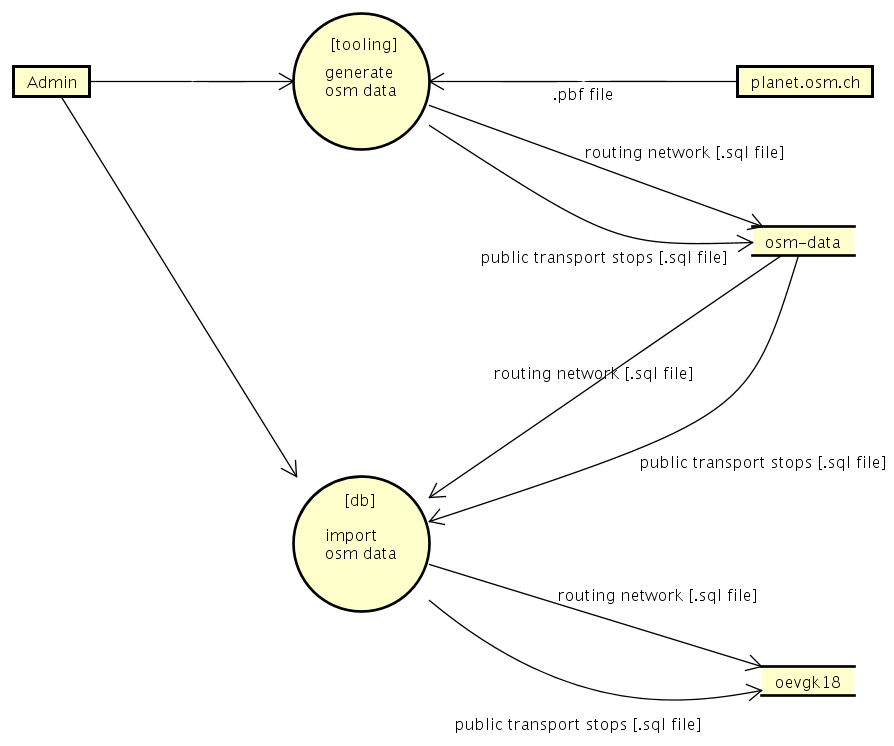
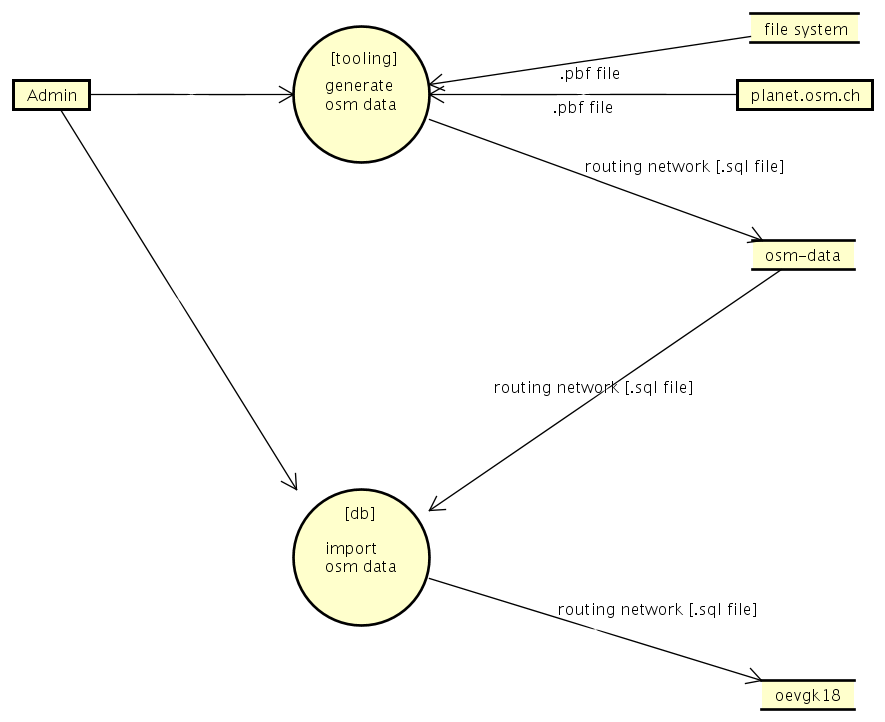
update architecture

diff --git a/projectdoc/implementation.tex b/projectdoc/implementation.tex
@@ -16,7 +16,7 @@ Für eine einfache Handhabung wurde ein Docker-Setup gewählt.
 Die Bedienung dieses Setups ist im Kapitel \ref{Softwaredokumentation} ausführlich beschrieben.
 
 Grundsätzlich kann man sagen, dass zwei Docker-Container existieren, namentlich \emph{tooling} und \emph{db}.
-Der Docker-Container \emph{tooling} nimmt Daten in gängigen Formaten entgegen oder bezieht diese von externen Diensten und bereitet sie so vor, dass diese vom Docker-Container \emph{db} in die Datenbank \emph{oevgk18} für eine Weitereverwendung des \acs{ÖV}-Güteklassen 2018 Generator geladen werden können.
+Der Docker-Container \emph{tooling} nimmt Daten entgegen oder bezieht diese von externen Diensten und bereitet sie so vor, dass diese vom Docker-Container \emph{db} in die Datenbank \emph{oevgk18} für eine Weitereverwendung des \acs{ÖV}-Güteklassen 2018 Generator geladen werden können.
 Der Docker-Container \emph{db} sorgt ebenfalls dafür, dass beim Starten die nötigen Extensions (pgrouting, hstore, \dots) aktiviert sind und zuerst die Schemas und danach die Stored Procedures erstellt werden.
 Zusätzlich müssen nach den einzelnen Imports, welche nachfolgend beschrieben werden, zusätzliche Modifaktionen am Schema vorgenommen werden.
 Diese Modifikationen werden in einem Post-Import-Schritt durchgeführt, weil die Terrain- sowie die OSM-Daten durch Tools importiert werden, welche ein Schema vorgeben und somit ein bereits modifiziertes Schema überschrieben wird. Ebenfall werden zusätzliche Indizes erstellt.
@@ -26,8 +26,10 @@ Der \acs{ÖV}-Güteklassen 2018 Generator operiert grundsätzlich auf drei exter
 Für jede Datenquelle existiert ein Service im Docker-Container \emph{tooling} und ein Pendant im Docker-Container \emph{db}, welche die vorverarbeiteten Daten des Docker-Container \emph{tooling} entgegennimmt und in die Datenbank spielt.
 
 \paragraph{OSM-Daten}~\\
-\acs{OSM}-Daten werden von der Routing-Enginge für das Berechnen von Isolinien und für das Identifizieren von \acs{ÖV}-Haltestellen verwendet.
-In Abbildung \ref{fig:dataflow-docker-setup-osm-data} ist ersichtlich, wie der Docker-Container \emph{tooling} die \acs{PBF}-Datei der Schweiz von einem externen Dienst~\cite{planet_osm_ch} bezieht und für die zwei vorhin erwähnten Zwecke verarbeitet.
+\acs{OSM}-Daten werden von der Routing-Engine für das Berechnen von \glspl{Isochrone} und für das Identifizieren von \acs{ÖV}-Haltestellen verwendet.
+In Abbildung \ref{fig:dataflow-docker-setup-osm-data} ist ersichtlich, wie der Docker-Container \emph{tooling} die \acs{PBF}-Datei der Schweiz von einem externen Dienst~\cite{planet_osm_ch} bezieht und für die zwei vorhin erwähnten Zwecke vorbereitet.
+Es besteht ebenfalls die Möglichkeit eine lokale \acs{OSM}-Datei zu verwenden.
+Dies ist vorallem für Testing-Zwecken vorteilhaft, da auf kleineren Ausschnitten getestet werden kann.
 
 \begin{figure}[ht]
     \centering
@@ -36,13 +38,11 @@ In Abbildung \ref{fig:dataflow-docker-setup-osm-data} ist ersichtlich, wie der D
     \label{fig:dataflow-docker-setup-osm-data}
 \end{figure}
 
-Das Routing-Netzwerk wird mithilfe des Tools \emph{OSM2PO}~\cite{OSM2PO} für pgrouting aufbereitet und als SQL-Datei bereitgestellt.
-Die \acs{ÖV}-Haltestellen werden durch Osmosis~\cite{osmosis} gefiltert und ebenfalls in eine SQL-Datei exportiert.
-Beide Tools werden durch separate Konfigurationen für unsere Zwecke konfiguriert.
-So werden aus den \acs{OSM}-Daten für das Identifizieren von \acs{ÖV}-Haltestellen nur Nodes extrahiert, welche eine \emph{uic\_ref} besitzen. \ac{UIC}-Referenzen werden für die Identifizierung von \acs{ÖV}-Haltestellen verwendet.
+Der Routing-Graph wird mithilfe des Tools \emph{OSM2PO}~\cite{OSM2PO} für pgRouting aufbereitet und als SQL-Datei bereitgestellt.
+\emph{OSM2PO} wird durch eine separate Konfiguration für unsere Zwecke konfiguriert.
 
 \paragraph{GTFS-Daten}~\\
-Die Fahrplandaten werden im Docker-Container \emph{tooling} automatisch von geOps~\ref{geops_fahrplandaten} im GTFS-Format~\cite{gtfs_spec} heruntergeladen und im CSV-Format als TXT-Dateien bereitgestellt.
+Die Fahrplandaten werden im Docker-Container \emph{tooling} automatisch von geOps~\cite{geops_fahrplandaten} im GTFS-Format~\cite{gtfs_spec} heruntergeladen und im CSV-Format als TXT-Dateien bereitgestellt.
 Diese wiederum können in einem nächsten Schritt durch den Docker-Container \emph{db} in die Datenbank gespielt werden.
 Der Datenfluss ist in Abbildung \ref{fig:dataflow-docker-setup-gtfs-data} ersichtlich.
 
@@ -58,7 +58,7 @@ Das Terrainmodell kann aufgrund der Grösse der Datei und aus lizenztechnischen 
 Diese Datei wird mit raster2pgsql~\cite{raster2pgsql}, einem Tool von PostGIS, welches Raster-Formate in ein Format konvertiert, welche in eine PostGIS-Tabelle geladen werden kann, verarbeitet.
 Dabei wird von der üblichen Struktur (ein Service im Docker-Container \emph{tooling} und ein Pendant im \emph{db}) abgewichen.
 raster2pgsql ist darauf ausgelegt direkt in eine PostgreSQL-Datenbank zu schreiben.
-Der Weg über eine Intermediate-Datei wäre somit eine nicht begründete Indirektion.
+Der Weg über eine Intermediate-Datei wäre somit eine überflüssige Indirektion.
 Somit entfällt hier der Service im Docker-Container \emph{tooling}.
 Der Datenfluss ist in Abbildung \ref{fig:dataflow-docker-setup-terrain-data} ersichtlich.
 
@@ -73,9 +73,10 @@ Der Datenfluss ist in Abbildung \ref{fig:dataflow-docker-setup-terrain-data} ers
 \label{ÖV-Güteklassen 2018 Generator:Umsetzung Spezifikation}
 
 \paragraph{Datenfluss}~\\
-Durch die unterschiedliche Natur der Datenquellen und der Menge dieser ist es hilfreich, zu visualisieren, zu welchem Zeitpunkt, welche Daten zu welchen Zweck benötigt werden.
+Durch die unterschiedliche Natur der Datenquellen und der Menge dieser ist es hilfreich, zu visualisieren, zu welchem Zeitpunkt, welche Daten zu welchem Zweck benötigt werden.
 Wie in Abbildung \ref{fig:Flow_OeVGK_Brechnung} ersichtlich ist, werden die \acs{ÖV}-Güteklassen in fünf Schritten berechnet. 
 In Abbildung \ref{fig:dataflow_OeV-Gueteklassen_2018_Generator} ist nun schematisch die Raison d’Être der Datenquellen ersichtlich.
+Die Pfeilrichtung beschreibt den Datenfluss.
 
 \begin{figure}[ht]
     \centering
@@ -85,7 +86,7 @@ In Abbildung \ref{fig:dataflow_OeV-Gueteklassen_2018_Generator} ist nun schemati
 \end{figure}
 
 Die Datenquellen \emph{GTFS}, \emph{OSM} und \emph{Terrain-Daten} entsprechen an sich keinen separaten Datenquellen, sondern werden nur zum besseren Verständnis getrennt dargestellt.
-Wie wir in Kapitel \ref{ÖV-Güteklassen 2018 Generator:Datenaufbereitung} gesehen haben, werden diese aufbereitet und optimiert in einer Datenbank \emph{oevgk18} gehalten.
+Wie wir in Kapitel \ref{ÖV-Güteklassen 2018 Generator:Datenaufbereitung} gesehen haben, werden diese aufbereitet und in einer Datenbank \emph{oevgk18} gehalten.
 
 Nachfolgend werden die fünf Berechnungsschritte separat beschrieben.
 
@@ -124,13 +125,13 @@ In Tabelle \ref{table:Mapping GTFS Route Type Verkehrsmittelgruppe} ist ein Mapp
     \label{table:Mapping GTFS Route Type Verkehrsmittelgruppe}
 \end{table}
 
-Die Herausforderung beim Berechnen der Art der Verkehrsmittel ist die Evaluation der Bahnknoten.
+Die Herausforderung beim Berechnen der Art der Verkehrsmittel ist die Bestimmung der Bahnknoten.
 Die Definition des Bahnknoten ist im Kapitel \ref{Berechnungsmethodik OeVGK18:Art der Verkehrsmittel} genau spezifiziert.
 Für die Klassifizierung eines Bahnknoten ist die Anzahl der Richtungen, in welche man von einer Bahnstation aus verkehren kann, relevant.
 
 \begin{listing}[ht]
     \inputminted{sql}{projectdoc/listing/count_of_distinct_next_stops.sql}
-    \caption{SQL-Query zur Bestimmung der Anzahl erreichbaren Haltestellen}
+    \caption{SQL-Query zur Bestimmung der Anzahl erreichbaren Haltestellen (finale Version)}
     \label{listing:count_of_distinct_next_stops}
 \end{listing}
 
@@ -138,7 +139,7 @@ In Listing \ref{listing:count_of_distinct_next_stops} ist ersichtlich, wie für 
 Im abgebildeten Query wird geprüft, ob der aktuelle Stop bei einem anderen \emph{Trip} als vorherige Haltestelle vorkommt.
 Die Anzahl wird mit der Window Function gesammelt und gruppiert für jede Haltestelle retourniert.
 
-Die abgebildete Berechnung hat mehrere Verbesserungen und Verschlimmbesserungen durchlaufen.
+Die abgebildete Berechnung hat mehrere Ver- und Verschlimmbesserungen durchlaufen.
 Es lohnt sich einen ausführlicheren Blick auf die Evolution der Abfragetechnik zu legen, da diese Hoch und Tiefs durchlebt hat und einige Learnings daraus gezogen wurden.
 
 \subparagraph{1. Version}
@@ -154,14 +155,14 @@ Das Datenmodell von GTFS zwingt einem zu einem Join über mehrere grössere Tabe
 In Listing \ref{listing:count_of_distinct_next_stops_v1} ist ersichtlich, wie in einer Common Table Expression dieser für jede Haltestelle durchgeführt wird.
 Dieser Join bildet für eine Station alle \emph{Trips} mit der Nummer des akutellen \emph{Stops} auf einem \emph{Trip} ab.
 Dieser Join ist sehr zeit- und ressourcenintensiv.
-Diese Abfrage dauert pro Haltestelle 11.9 Sekunden, was bei momentan akuellen 1815 Bahnhaltestellen extrem ins Gewicht fällt.
+Diese Abfrage dauert pro Haltestelle 11.9 Sekunden, was bei momentan akuellen 1815 Bahnhaltestellen extrem ins Gewicht fällt und nicht zumutbar ist.
 
 \subparagraph{2. Version}
 In einer zweiten Version war die Überlegung den Join zu persistieren, damit nicht jede Abfrage diese aufwändigen Join durchführen muss und Indizes darauf zu generieren.
 
 Der Grund warum in diesem Fall nicht eine temporäre Tabelle in Frage kommt, ist in der PostgreSQL-Dokumentation beschrieben: "`The autovacuum daemon cannot access and therefore cannot vacuum or analyze temporary tables."'~\cite{postgresql_doc}
 Es ist auch nicht möglich den Daemon manuell anzustossen, da das Erstellen der temporären Tabelle und das Starten des Daemons aus einer PostgreSQL-Funktion nicht in der selben Session durchgeführt werden kann, was den Nutzen der temporären Tabelle zu nichte macht, denn damit die Indizes greifen, ist dieser Prozess relevant.
-Das Persistieren des Join und das Anlegen der Indizes bringen in diesem Fall eine enorme Performanzsteigerung, wie in Tabelle \ref{table:Performanzvergleich Temp Table und Table mit Index} ersichtlich ist, mit der Annahme, dass Autovacuum lief.
+Das Persistieren des Join in einer persistenten Tabelle (\emph{next\_station\_mapping}) und das Anlegen der Indizes bringen in diesem Fall eine enorme Performanzsteigerung, wie in Tabelle \ref{table:Performanzvergleich Temp Table und Table mit Index} ersichtlich ist, mit der Annahme, dass Autovacuum lief.
 
 \begin{table}[ht]
     \centering
@@ -228,7 +229,7 @@ Da nun die Berechnung nicht mehr für alle Bahnhaltestellen einzeln durchgeführ
 \end{table}
 
 In der Tabelle \ref{table:Performanzvergleich Join in Tabelle und Join in CTE} ist das Ergebnis ersichtlich.
-Die Performanzverbesserung ist durch die Natur des OeVGK18-Generator ein Tropfen auf dem heissen Stein, jedoch wird die Verbesserung übernommen, da in dieser Variante nicht zusätzliche eine Tabelle angelegt werden muss, welche nur für einen Join benötigt wird und sonst nichts mit der Domain zu tun hat.
+Die Performanzverbesserung ist nicht immens, jedoch wird die Verbesserung übernommen, da in dieser Variante nicht zusätzliche eine Tabelle angelegt werden muss, welche nur für einen Join benötigt wird und sonst nichts mit der Domain zu tun hat.
 
 Die finale Version war bereits in Listing \ref{listing:count_of_distinct_next_stops} ersichtlich.
 
@@ -287,7 +288,7 @@ Welche \glspl{Isochrone} für eine Haltestelle erzeugt werden und welche Gütekl
 Die Haltestellen stammen aus dem Datenstamm der SBB~\cite{sbb_hafas_spec} und sind somit nicht Teil des Routing-Graphen. 
 Um die \glspl{Isochrone} berechnen zu können, muss auf dem Routing-Graphen zuerst ein Startpunkt ermittelt werden, von dem das Routing entlang der Strassen und Wege ausgehen kann.
 Dieser Punkt soll möglichst nahe an der eigentlichen Haltestelle liegen.
-Es ist anzumerken, dass unsere Fahrplan-Daten lediglich ein geographischer Punkt pro Haltestelle definiert und so Buskanten oder Gleise nicht genau abbilden.
+Es ist anzumerken, dass unsere Fahrplandaten lediglich ein geographischer Punkt pro Haltestelle definiert und so Buskanten oder Gleise nicht genau abbilden.
 
 Ein erster Ansatz dieses "`Snappings"' sucht mithilfe einer "`Nearest Neighbor"'-Suche den geographisch nächstliegenden Vertex des Routing-Graphen zu den Koordinaten der Haltestelle.
 Dies ist bei regulären Bushaltestellen mit zwei Kanten ein guter Ansatz, da diese Koordinaten meist neben oder direkt auf der Strasse liegen.
@@ -354,19 +355,19 @@ Die Richtung der Kanten wird dabei umgekehrt, da der Dijkstra-Algorithmus die St
 Für unsere Zwecke ist es aber realistischer, den Laufweg zu berechnen, wenn man zur Haltestelle hin läuft.
 
 \begin{listing}[ht]
-    \inputminted{sql}{projectdoc/listing/calc_isochrones_preselection.sql}
-    \caption[Vorselektion der Kanten für die Berechnung von Isochronen]{Mit einer effizienten Index-Suche werden alle Kanten in der Nähe der Haltestelle ermittelt}
-    \label{listing:calc_isochrones_preselection}
+    \inputminted{sql}{projectdoc/listing/calc_isochrones_dijkstra.sql}
+    \caption[Dijkstra-Algorithmus zur Berechnung von Isochronen]{Mit einem Dijkstra-Algorithmus werden bis zur Maximaldistanz alle erreichbaren Vertices gesucht (Auszug)}
+    \label{listing:calc_isochrones_dijkstra}
 \end{listing}
 
-Vorgägig werden mit einer effizienten Query alle Kanten gesucht, die sich in einem Radius von 1300 Metern der Haltestelle befinden (siehe Listing \ref{listing:calc_isochrones_preselection}).
+Vorgängig werden mit einer Query alle Kanten gesucht, die sich in einem Radius von 1300 Metern der Haltestelle befinden (siehe Listing \ref{listing:calc_isochrones_preselection}).
 Dies, weil keine Isochronen berechnet werden, die einen grösseren Radius als 1300 Meter einschliessen.
 Dadurch verringert sich die Anzahl Kanten enorm, die pgRouting mit dem Dijkstra-Algorithmus abarbeiten muss.
 
 \begin{listing}[ht]
-    \inputminted{sql}{projectdoc/listing/calc_isochrones_dijkstra.sql}
-    \caption[Dijkstra-Algorithmus zur Berechnung von Isochronen]{Mit einem Dijkstra-Algorithmus werden bis zur Maximaldistanz alle erreichbaren Vertices gesucht}
-    \label{listing:calc_isochrones_dijkstra}
+    \inputminted{sql}{projectdoc/listing/calc_isochrones_preselection.sql}
+    \caption[Vorselektion der Kanten für die Berechnung von Isochronen]{Mit einer effizienten Index-Suche werden alle Kanten in der Nähe der Haltestelle ermittelt (Auszug)}
+    \label{listing:calc_isochrones_preselection}
 \end{listing}
 
 Im zweiten Schritt wird mit diesen Vertices eine Alpha Shape~\cite{alpha_shapes} erzeugt (siehe Listing \ref{listing:calc_isochrones_alpha_shape}). Dieser Algorithmus bildet das kleinst mögliche Polygon, wobei alle gefunden Vertices darin enthalten sein müssen.
@@ -374,20 +375,20 @@ Diese Alpha Shape stellt die \gls{Isochrone} dar.
 
 \begin{listing}[ht]
     \inputminted{sql}{projectdoc/listing/calc_isochrones_alpha_shape.sql}
-    \caption[Berechnung der Alpha Shape]{Mit den erreichbaren Vertices wird eine Alpha Shape erzeugt}
+    \caption[Berechnung der Alpha Shape]{Mit den erreichbaren Vertices wird eine Alpha Shape erzeugt (Auszug)}
     \label{listing:calc_isochrones_alpha_shape}
 \end{listing}
 
 Der erste Schritt muss pro Haltestelle nur ein Mal für die grösste zu berechnende Distanz durchgeführt werden, für die Erzeugung der \glspl{Isochrone} für kürzere Distanzen wird das Ergebnis des Dijkstra-Algorithmus gefiltert und nur die Vertices beachtet, die innerhalb dieser Distanz von der Haltestelle erreichbar sind.
 Auf die einzelnen \glspl{Isochrone} wird ein zusätzlicher Buffer angewendet, um die scharfen Ecken etwas abzurunden.
-Dadurch wird bewusst etwas Unschärfe hinzugefügt, um nicht die Illusion zu erwecken, dass die \gls{Isochrone} das Einzugsgebiet ganz genau abbildet, sondern nur eine Approximation dessen darstellt.
+Dadurch wird bewusst etwas Unschärfe hinzugefügt, um nicht die Illusion zu erwecken, dass die \gls{Isochrone} das Einzugsgebiet exakt abbildet, sondern nur eine Approximation dessen darstellt.
 
 \paragraph{Ausgabe des Ergebnisses}~\\
 Nach der Berechnung der \acs{ÖV}-Güteklassen liegt für jede Haltestelle, die mindestens eine Basiserschliessung hat, ein oder mehrere \glspl{Isochrone} vor.
 Diese gilt es nun im GeoJSON Format auszugeben.
 Dabei wird für jeden der unterschiedlichen Stichtage eine separate Datei erstellt.
 
-Für jede \gls{Isochrone} wird ein Feature erstellt, wobei die \acs{ÖV}-Güteklasse und die \emph{uic\_ref} der Haltestelle als zusätzliche Attribute mitgegeben werden.
+Für jede \gls{Isochrone} wird ein GeoJSON-Feature erstellt, wobei die \acs{ÖV}-Güteklasse und die \emph{uic\_ref} der Haltestelle als zusätzliche Attribute mitgegeben werden.
 Anschliessend werden alle Features sortiert nach \acs{ÖV}-Güteklassen sortiert, wobei die tieferen Klassen zuerst eingefügt werden.
 Dies hat später für die Visualisierung eine Auswirkung.
 Weil die \glspl{Isochrone} der höheren Klassen diejenigen der tieferen überlagern, sollte bei der Visualisierung die tieferen Klassen zuerst gerendert werden.
@@ -418,7 +419,7 @@ Im Bezug auf das Maturity Model~\cite{maturity_model} von Leonard Richardson bef
 Mithilfe von Flasgger~\cite{flasgger} wird eine \ac{OAS}~\cite{open-api-specificaiton} erstellt.
 Dies hat den Vorteil, dass die \ac{API} sauber dokumentiert ist und Clients der \ac{API} in unterschiedlichen Sprachen generiert werden können.
 
-Die konkrete Web-\ac{API}, welche das Backend exponiert, kann mit ReDoc (OpenAPI/Swagger-generated API Reference Documentation)~\cite{oevgk18-backend-api-spec} oder mit dem klassischen Swagger UI~\cite{oevgk18-backend-api-swaggerui} betracht werden.
+Die konkrete Web-\ac{API}, welche das Backend exponiert, kann mit ReDoc (OpenAPI/Swagger-generated API Reference Documentation)~\cite{oevgk18-backend-api-spec} oder mit dem klassischen Swagger UI~\cite{oevgk18-backend-api-swaggerui} betrachtet werden.
 
 \subsection{Tile-Server}
 \label{Implementation:Tile-Server}
@@ -439,11 +440,11 @@ Der oben erwähnte Tile-Server nutzt MBTiles~\cite{mbtiles}.
 Dabei handelt es sich um eine Spezifikation von Mapbox, um beliebige gekachelte Karten-Daten zu speichern.
 Dieses Format ist extrem effizient für Transfers, was in unserer Problemdomain relevant ist.
 Für die Konvertierung bietet sich das Tool \emph{tippecanoe}~\cite{tippecanoe}, ebenfalls von Mapbox, an.
-Dieses erlaubt die Konvertierung von verschiedenen Dateiformaten, so auch GeoJSON in in MBTiles und die Konfiguration der zu generierenden Vector-Tilesets.
+Dieses erlaubt die Konvertierung von verschiedenen Dateiformaten, so auch GeoJSON in MBTiles und die Konfiguration der zu generierenden Vector Tilesets.
 
 Die Indirektion über das GeoJSON-Format ist bewusst.
 Die ÖV-Güteklassen können als GeoJSON breiter verwendet werden, etwa in QGIS.
-Das MBTiles ist speziell auf Vector-Tilesets ausgelegt, was bei uns nicht der Hauptfokus ist.
+Das MBTiles ist speziell auf Vector Tilesets ausgelegt, was bei uns nicht der Hauptfokus ist.
 
 Der Tile-Converter ist als Docker-Container verfügbar.
 Dieser wird im Kapitel \ref{Infrastruktur:Deployment} genauer beschrieben.
@@ -464,7 +465,7 @@ Ein Auszug ist in Abbildung \ref{fig:Web_App} ersichtlich.
 \end{figure}
 
 Zur Übersicht sind die React-Komponenten in einer Baumstruktur in Abbildung \ref{fig:Web_App_Component} aufgeschlüsselt.
-Dabei handelt es sich nicht um ein klassisches UML-Komponenten-Diagramm.
+Dabei handelt es sich im engeren Sinn nicht um ein klassisches UML-Komponenten-Diagramm.
 Die Verantwortlichkeiten werden nachfolgend kurz beschrieben.
 
 \begin{figure}[H]
@@ -488,7 +489,7 @@ Der Ablauf ist stark vereinfacht in Abbildung \ref{fig:Web-App_Sequence} sichtba
 Beim Mounten dieser Komponente werden vom Backend die verfügbaren Stichtage angefragt (Schritt 1 und 2).
 Anschliessend werden für einen Stichtag die zugehörigen Zeitintervalle geladen (Schritt 3 und 4).
 Mit diesen beiden Informationen werden vom Tile-Server dann die gewünschten \acs{ÖV}-Güteklassen geladen (Schritt 7).
-Wählt der User einen neuen Stichtag oder Zeitintervall, wiederholt sich der obige Ablauf.
+Wählt der User einen neuen Stichtag oder Zeitintervall, wiederholt sich der Ablauf.
 
 \begin{figure}[ht]
     \centering
@@ -497,18 +498,18 @@ Wählt der User einen neuen Stichtag oder Zeitintervall, wiederholt sich der obi
     \label{fig:Web-App_Sequence}
 \end{figure}
 
-Es sei angemerkt, dass auf dem Tile-Server für ein Satz von \acs{ÖV}-Güteklassen nicht nur einmal zugegriffen wird, wie man aufgrund der Sequenz annehmen könnte.
-Der Vorteil der Vector-Tiles und dem damit verbundenen Tile-Server liegt darin, dass gerade nur die Tiles geladen werden, welche benötigt werden. Verändert man Auszug und Zoomstufe, löst man somit Zugriffe auf den Tile-Server aus.
+Es sei angemerkt, dass auf dem Tile-Server für einen Satz von \acs{ÖV}-Güteklassen nicht nur einmal zugegriffen wird, wie man aufgrund der Sequenz annehmen könnte.
+Der Vorteil der Vector Tiles und dem damit verbundenen Tile-Server liegt darin, dass gerade nur die Tiles geladen werden, welche benötigt werden. Verändert man Auszug und Zoomstufe, löst man somit Zugriffe auf den Tile-Server aus.
 
 \paragraph{LeafletMap}
 \emph{LeafletMap} ist für die Darstellung der Karte verantwortlich.
 Dabei wird die Komponente \emph{Map} von react-leaflet~\cite{react-leaflet} verwendet.
-Mithilfe von MapboxGL (MapboxGLLayer)~\cite{mapbox_gl_leaflet} kann die Basiskarte ebenfalls mit Vector-Tiles abgebildet werden, was standardmässig von Leaflet nicht unterstützt wird.
+Mithilfe von Mapbox GL JS (MapboxGLLayer)~\cite{mapbox_gl_leaflet} kann die Basiskarte ebenfalls mit Vector Tiles abgebildet werden, was standardmässig von Leaflet nicht unterstützt wird.
 
 \paragraph{VectorgridLayer}
 Die Kartendaten, welche über die Basiskarte gerendert werden, werden mit der Komponente \emph{VectorgridLayer} verwaltet.
 So existiert jeweils ein Layer für die \acs{ÖV}-Güteklassen 2018, für die \acs{ÖV}-Güteklassen des \acl{ARE} und eine für die ÖV-Haltestellen.
-Somit werden alle Kartendaten mit Vector-Tiles abgebildet.
+Somit werden alle Kartendaten mit Vector Tiles abgebildet.
 Alle diese Layer sind in Abbildung \ref{fig:Vector-Grid-Layers} ersichtlich.
 
 \begin{figure}[ht]
@@ -518,14 +519,14 @@ Alle diese Layer sind in Abbildung \ref{fig:Vector-Grid-Layers} ersichtlich.
     \label{fig:Vector-Grid-Layers}
 \end{figure}
 
-Beim Layer, welcher die ÖV-Haltestellen anzeigt, ist der Vorteil der Vector-Tiles stark sichtbar.
-So wurden diese Vector-Tiles so konfiguriert, dass sie erst ab einer gewissen Zoom-Stufe angezeigt werden. In der Abbildung \ref{fig:zoom-level-comparison} sieht man den Unterschied zwischen Zoom-Stufe 13 (links) und 14 (rechts).
-Dadurch müssen auf einer tieferen Zoom-Stufe weniger grosse Vector-Tiles geladen werden und der Fokus bleibt auf den \acs{ÖV}-Güteklassen.
+Beim Layer, welcher die ÖV-Haltestellen anzeigt, ist der Vorteil der Vector Tiles stark sichtbar.
+So wurden diese Vector Tiles so konfiguriert, dass sie erst ab einer gewissen Zoomstufe angezeigt werden. In der Abbildung \ref{fig:zoom-level-comparison} sieht man den Unterschied zwischen Zoomstufe 13 (links) und 14 (rechts).
+Dadurch müssen auf einer tieferen Zoomstufe weniger grosse Vector Tiles geladen werden und der Fokus bleibt auf den \acs{ÖV}-Güteklassen.
 
 \begin{figure}[ht]
     \centering
     \includegraphics[width=1.0\linewidth]{projectdoc/img/zoom-level-comparison.png}
-    \caption[Vergleich Zoom-Stufe ÖV-Haltestelle Layer]{Vergleich Zoom-Stufe ÖV-Haltestelle Layer: Zoom-Stufe 13 (links) und 14 (rechts)}
+    \caption[Vergleich Zoom-Stufe ÖV-Haltestelle Layer]{Vergleich Zoomstufe ÖV-Haltestelle Layer: Zoomstufe 13 (links) und 14 (rechts)}
     \label{fig:zoom-level-comparison}
 \end{figure}
 
@@ -534,21 +535,21 @@ Dadurch müssen auf einer tieferen Zoom-Stufe weniger grosse Vector-Tiles gelade
 
 In einer Analyse wurden die beiden Frontend-Frameworks Vue.js und React evaluiert (siehe Kapitel~\ref{Analyse:Evaluation Frontend-Framework}).
 Die Unterstützung von Mapbox GL JS~\cite{mapbox_gl_js} war das ausschlagende Kriterium für den Entscheid zugunsten von React.
-Der Grund für den Einsatz von Mapbox GL JS gegenüber Leaflet~\cite{leaflet} war die gute Unterstützung von Vector-Tiles.
+Der Grund für den Einsatz von Mapbox GL JS gegenüber Leaflet~\cite{leaflet} war die gute Unterstützung von Vector Tiles.
 Trotz alldem hat sich während der Entwicklung gezeigt, dass der Wechsel zu Leaflet praktisch unausweichlich ist.
 Im Folgenden ist dieser Schritt begründet.
 
 Der ausschlaggebende Nachteil von Mapbox GL JS zeigte sich bei der Integration der \acs{ÖV}-Güteklassen, um sie auf der Webkarte anzeigen zu können.
 Wenn sich mehrere Haltestellen nah beieinander befinden, überschneiden sich ihre \glspl{Isochrone}.
 Da wir hinter den Geometrien der \acs{ÖV}-Güteklassen auch die Basiskarte im Hintergrund anzeigen möchten, muss die Deckkraft der Geometrien entsprechend verringert werden.
-Mapbox GL JS unterstützt die Einstellung der Deckkraft aber ausschliesslich auf Feature-Ebene, sprich auf einzelne Geometrien.
+Mapbox GL JS unterstützt die Einstellung der Deckkraft aber ausschliesslich auf Feature-Ebene, sprich auf einzelnen Geometrien.
 Bei sich überlagernden Features entsteht damit der Effekt, dass die Farben sich mischen und einander verstärken (siehe Abbildung~\ref{fig:problem_overlapping_isochrones}).
-Dies ist irreführend, da ein Gebiet mit zum Beispiel Güteklasse A durchgehend gleich kategorisiert werden soll, egal, von wie vielen verschiedenen Haltestellen mit der gleichen Güteklasse das Gebiet erschlossen wird.
+Dies ist irreführend, da ein Gebiet mit zum Beispiel Güteklasse A durchgehend gleich kategorisiert werden soll, egal von wie vielen verschiedenen Haltestellen mit der gleichen Güteklasse das Gebiet erschlossen wird.
 
 \begin{figure}[ht]
     \centering
     \includegraphics[width=0.8\linewidth]{projectdoc/img/problem_overlapping_isochrones}
-    \caption[Problematik von sich überlappenden Geometrien mit gleicher Deckkraf]{Überlappende Geometrien mit gleicher Deckkraft ergeben gemischte und irreführende Farbflächen}
+    \caption[Problematik von sich überlappenden Geometrien mit gleicher Deckkraft]{Überlappende Geometrien mit gleicher Deckkraft ergeben gemischte und irreführende Farbflächen}
     \label{fig:problem_overlapping_isochrones}
 \end{figure}
 
@@ -564,7 +565,7 @@ Die Unterstützung dafür wird aktuell auf Github diskutiert und steht noch offe
 Der zweite Ansatz wurde während der Entwicklung implementiert.
 Da alle Geometrien von allen anderen ausgeschnitten werden, ist dies eine komplexe Operation in der Grössenordnung $\mathcal{O}(n^2)$.
 Mit einem R-Tree-Index kann diesem Problem entgegen gesteuert werden.
-Es enstanden ausserdem Probleme mit der Topologie der ausgeschnittenen Geometrien sowie Render-Fehler im Browser.
+Es entstanden Probleme mit der Topologie der ausgeschnittenen Geometrien sowie Render-Fehler im Browser.
 
 Diese Problematiken haben uns dazu bewegt, von Mapbox GL JS auf Leaflet umzusteigen.
 Die erste Option, die Verringerung der Deckkraft auf dem kompletten Layer, ist dort kein Problem.
